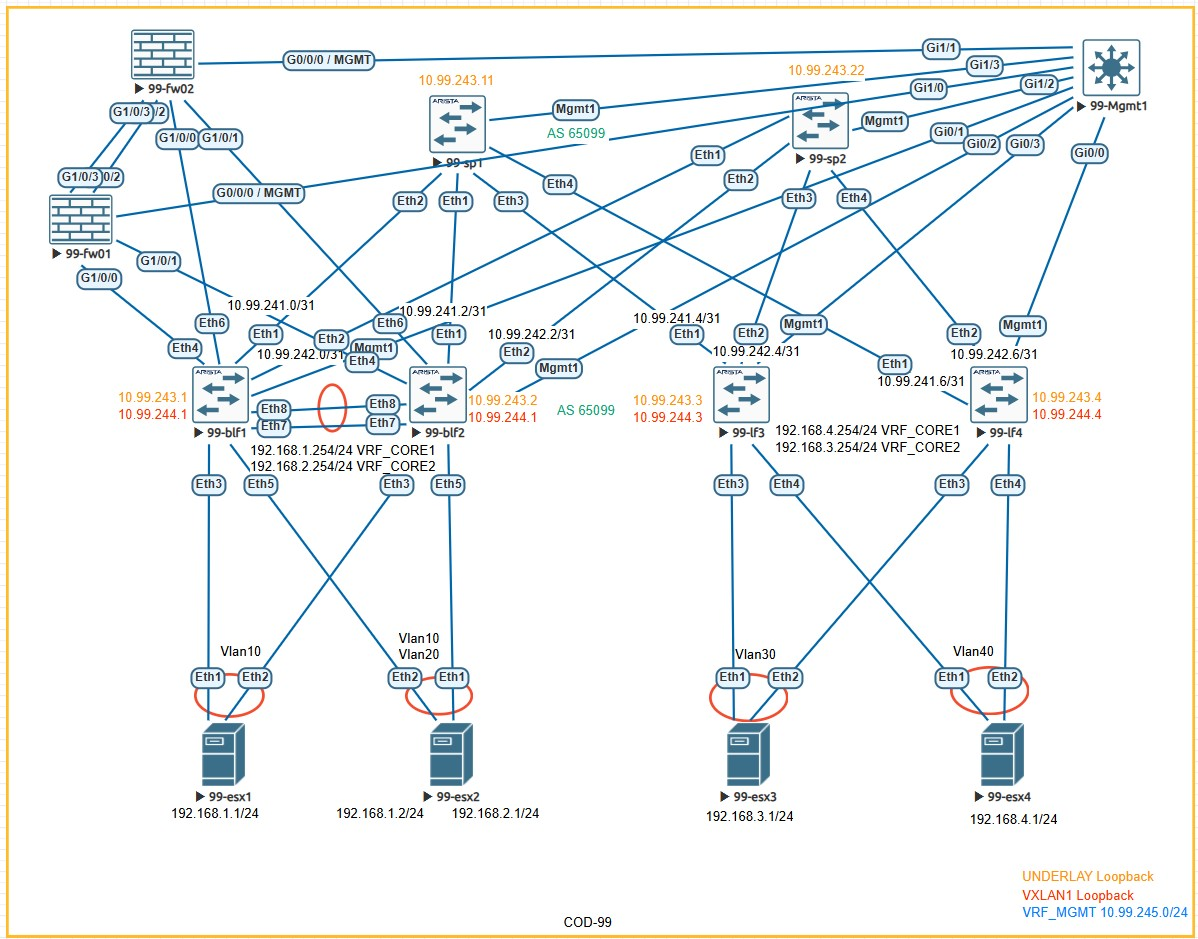
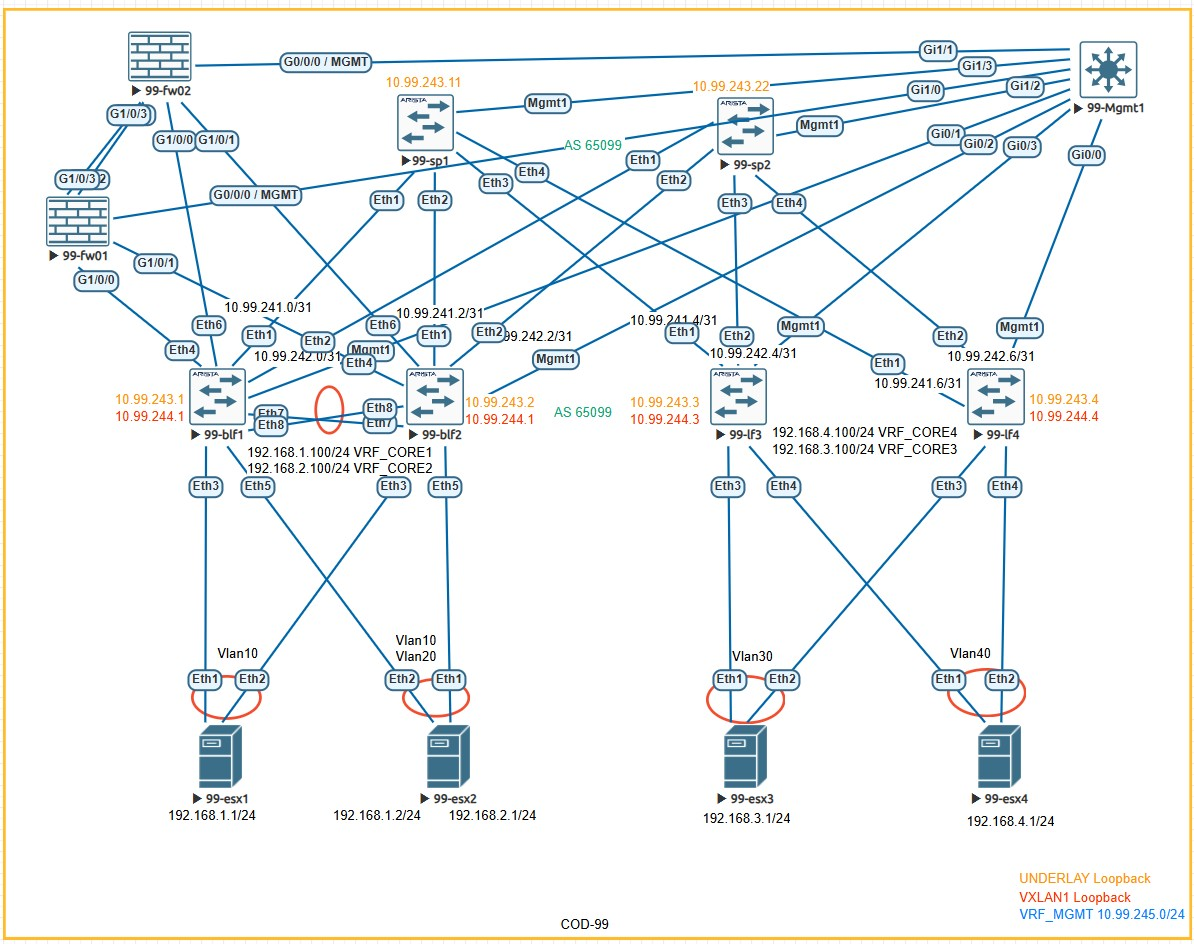
1

diff --git a/labs/lab_08 (VxLAN. ROUTING)/README.md b/labs/lab_08 (VxLAN. ROUTING)/README.md
@@ -24,13 +24,11 @@
 | 99-blf1     | -                | Ethernet3 | 99-esx1       | Ethernet1   | Server Trunk        |
 | 99-blf1     | 10.99.241.8/31   | Ethernet4 | 99-fw01       | GI1/0/0     | to fw01             |
 | 99-blf1     | -                | Ethernet5 | 99-esx2       | Ethernet2   | Server Trunk        |
-| 99-blf1     | 10.99.242.8/31   | Ethernet6 | 99-fw02       | GI1/0/0     | to fw02             |
 | 99-blf2     | 10.99.241.2/31   | Ethernet1 | 99-sp1        | Ethernet2   | to Spine1           |
 | 99-blf2     | 10.99.242.2/31   | Ethernet2 | 99-sp2        | Ethernet2   | to Spine2           |
 | 99-blf2     | -                | Ethernet3 | 99-esx1       | Ethernet1   | Server Trunk        |
-| 99-blf2     | 10.99.241.10/31  | Ethernet4 | 99-fw01       | GI1/0/1     | to fw01             |
 | 99-blf2     | -                | Ethernet5 | 99-esx2       | Ethernet2   | Server Trunk        |
-| 99-blf2     | 10.99.242.10/31  | Ethernet6 | 99-fw02       | GI1/0/1     | to fw02             |
+| 99-blf2     | 10.99.242.8/31   | Ethernet4 | 99-fw02       | GI1/0/1     | to fw02             |
 | 99-lf3      | 10.99.241.4/31   | Ethernet1 | 99-sp1        | Ethernet3   | to Spine1           |
 | 99-lf3      | 10.99.242.4/31   | Ethernet2 | 99-sp2        | Ethernet3   | to Spine2           |
 | 99-lf3      | -                | Ethernet3 | 99-esx3       | Ethernet1   | Server Trunk        |
@@ -117,7 +115,7 @@
 Для начала настроим доступ по ssh с blf поскольку нормальный доступ на хувиках в лабе не заработал, потому что после включения нужно прожать кнопку энтер чтоб устройство загрузилось, а в ssh режиме этого сделать не выходит.
 
 
-```
+```bash
 system-config
 sysname 99-fw01
 
@@ -147,7 +145,7 @@ aaa
 q
 save 
 ```
-```
+```bash
 system-config
 sysname 99-fw02
 
@@ -181,7 +179,7 @@ save
 
 ## Поднимем HRP
 99-fw01
-```
+```bash
 interface Eth-Trunk23
 ip address 10.99.241.12 255.255.255.254
 description HRP LINK to 99-fw02
@@ -202,7 +200,7 @@ hrp standby config enable
 hrp interface Eth-Trunk23 remote 10.99.241.13
 ```
 99-fw02
-```
+```bash
 interface Eth-Trunk23
 ip address 10.99.241.13 255.255.255.254
 description HRP LINK to 99-fw01
@@ -225,7 +223,7 @@ hrp interface Eth-Trunk23 remote 10.99.241.12
 
 ```
 Проверим:
-```
+```bash
 HRP_S<99-fw02>disp hrp state
  Role: standby, peer: active
  Running priority: 45000, peer: 45000
@@ -349,12 +347,6 @@ ip address 10.99.241.8/31
 description 99-fw01 G1/0/0
 no shut
 
-int et 6
-no switchport
-mtu 9100
-ip address 10.99.242.8/31 
-description 99-fw02 G1/0/0
-no shut
 
 router bgp 65099
 neighbor FW-UNDERLAY peer group
@@ -362,31 +354,108 @@ neighbor FW-UNDERLAY peer group
    neighbor FW-UNDERLAY timers 3 9
    neighbor FW-UNDERLAY send-community
    neighbor 10.99.241.9 peer group FW-UNDERLAY
-   neighbor 10.99.242.9 peer group FW-UNDERLAY
+   
+   address-family ipv4
+      neighbor FW-UNDERLAY activate
+
 ```
 blf02
 ```bash
 int et 4
 no switchport
 mtu 9100
-ip address 10.99.241.10/31 
-description 99-fw01 G1/0/1
-no shut
-
-int et 6
-no switchport
-mtu 9100
-ip address 10.99.242.10/31 
+ip address 10.99.242.8/31 
 description 99-fw02 G1/0/1
 no shut
+
 
 router bgp 65099
 neighbor FW-UNDERLAY peer group
    neighbor FW-UNDERLAY remote-as 65099
    neighbor FW-UNDERLAY timers 3 9
    neighbor FW-UNDERLAY send-community
-   neighbor 10.99.241.11 peer group FW-UNDERLAY
-   neighbor 10.99.242.11 peer group FW-UNDERLAY
+   neighbor 10.99.242.9 peer group FW-UNDERLAY
+   
+   address-family ipv4
+      neighbor FW-UNDERLAY activate
+
+```
+
+### Настройка маршрутизации на фаерволле
+```
+ip vpn-instance VRF_CORE_1
+ route-distinguisher 65099:101
+ vpn-target 65099:101 import-extcommunity
+ vpn-target 65099:101 export-extcommunity
+
+ip vpn-instance VRF_CORE_2
+ route-distinguisher 65099:102
+ vpn-target 65099:102 import-extcommunity
+ vpn-target 65099:102 export-extcommunity
+
+ip vpn-instance VRF_CORE_3
+ route-distinguisher 65099:103
+ vpn-target 65099:103 import-extcommunity
+ vpn-target 65099:103 export-extcommunity
+
+ip vpn-instance VRF_CORE_4
+ route-distinguisher 65099:104
+ vpn-target 65099:104 import-extcommunity
+ vpn-target 65099:104 export-extcommunity
+
+interface GigabitEthernet1/0/0
+ description P2P_to_BLF_for_BGP
+ ip address 10.99.241.9 31
+
+ interface GigabitEthernet1/0/0.10
+ description Gateway_for_VRF_CORE_1_VLAN10
+ ip binding vpn-instance VRF_CORE_1
+ vlan-type dot1q 10
+ ip address 192.168.1.252 255.255.255.0
+ vrrp vrid 10 virtual-ip 192.168.1.254 active 
+
+ interface GigabitEthernet1/0/0.20
+ description Gateway_for_VRF_CORE_2_VLAN20
+ ip binding vpn-instance VRF_CORE_2
+ vlan-type dot1q 20
+ ip address 192.168.2.252 255.255.255.0
+ vrrp vrid 20 virtual-ip 192.168.2.254 active
+
+interface GigabitEthernet1/0/0.30
+ description Gateway_for_VRF_CORE_3_VLAN30
+ ip binding vpn-instance VRF_CORE_3
+ vlan-type dot1q 30
+ ip address 192.168.3.252 255.255.255.0
+ vrrp vrid 30 virtual-ip 192.168.3.254 active
+
+interface GigabitEthernet1/0/0.40
+ description Gateway_for_VRF_CORE_4_VLAN40
+ ip binding vpn-instance VRF_CORE_4
+ vlan-type dot1q 40
+ ip address 192.168.4.252 255.255.255.0
+ vrrp vrid 40 virtual-ip 192.168.4.254 active
+
+
+bgp 65099
+ router-id 10.99.241.9
+ peer 10.99.241.8 as-number 65099
+ peer 10.99.241.8 timer keepalive 3 hold 9
+
+ipv4-family vpnv4
+  policy vpn-target
+  peer 10.99.241.8 enable
+
+  ipv4-family vpn-instance VRF_CORE_1
+  import-route direct
+ 
+ ipv4-family vpn-instance VRF_CORE_2
+  import-route direct
+ 
+ ipv4-family vpn-instance VRF_CORE_3
+  import-route direct
+ 
+ ipv4-family vpn-instance VRF_CORE_4
+  import-route direct
 ```
 
 ### 99-blf1 (Border Leaf 1)
